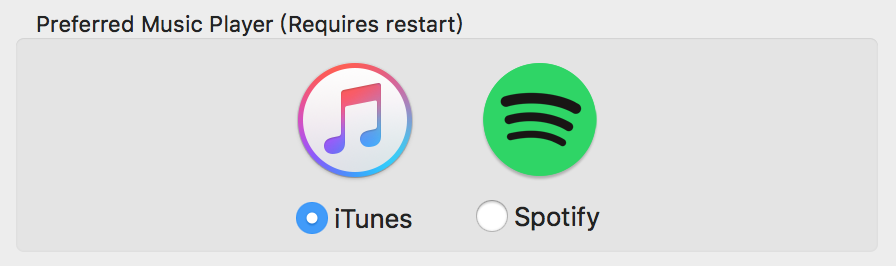
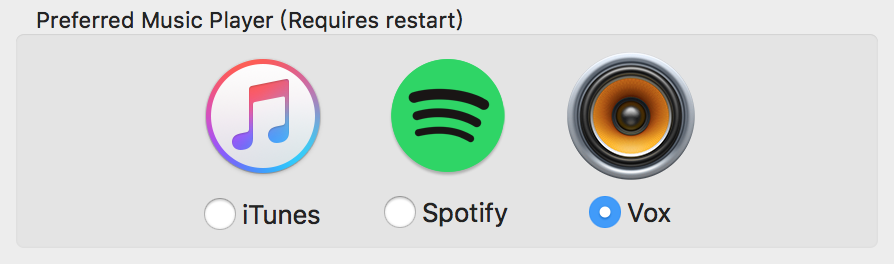
update: README

Changed region(s): [[0.2114, 0.1818, 0.7852, 0.697], [0.0302, 0.0303, 0.9664, 0.1515], [0.2114, 0.7273, 0.755, 0.8788]]

diff --git a/README.md b/README.md
@@ -2,7 +2,7 @@
 
 [![codebeat badge](https://codebeat.co/badges/12718a7c-04f1-465d-a520-5525788f4fba)](https://codebeat.co/projects/github-com-xqs6lb3a-lyricsx-master)
 
-LyricsX is a plugin for iTunes & Spotify, which auto search and download lyrics for the current playing from Internet, and displays them in the desktop and menu bar.
+LyricsX is a plugin for iTunes, Spotify and Vox, which auto search and download lyrics for the current playing from Internet, and displays them in the desktop and menu bar.
 
 ## Features
 
@@ -14,7 +14,7 @@ LyricsX is a plugin for iTunes & Spotify, which auto search and download lyrics 
 
 ![menubar_lyrics](docs/img/menubar_lyrics.png)
 
-- Work perfectly with iTunes/Spotify.
+- Work perfectly with iTunes, Spotify and Vox.
 
 ![preferred_player](docs/img/preferred_player.png)
 
